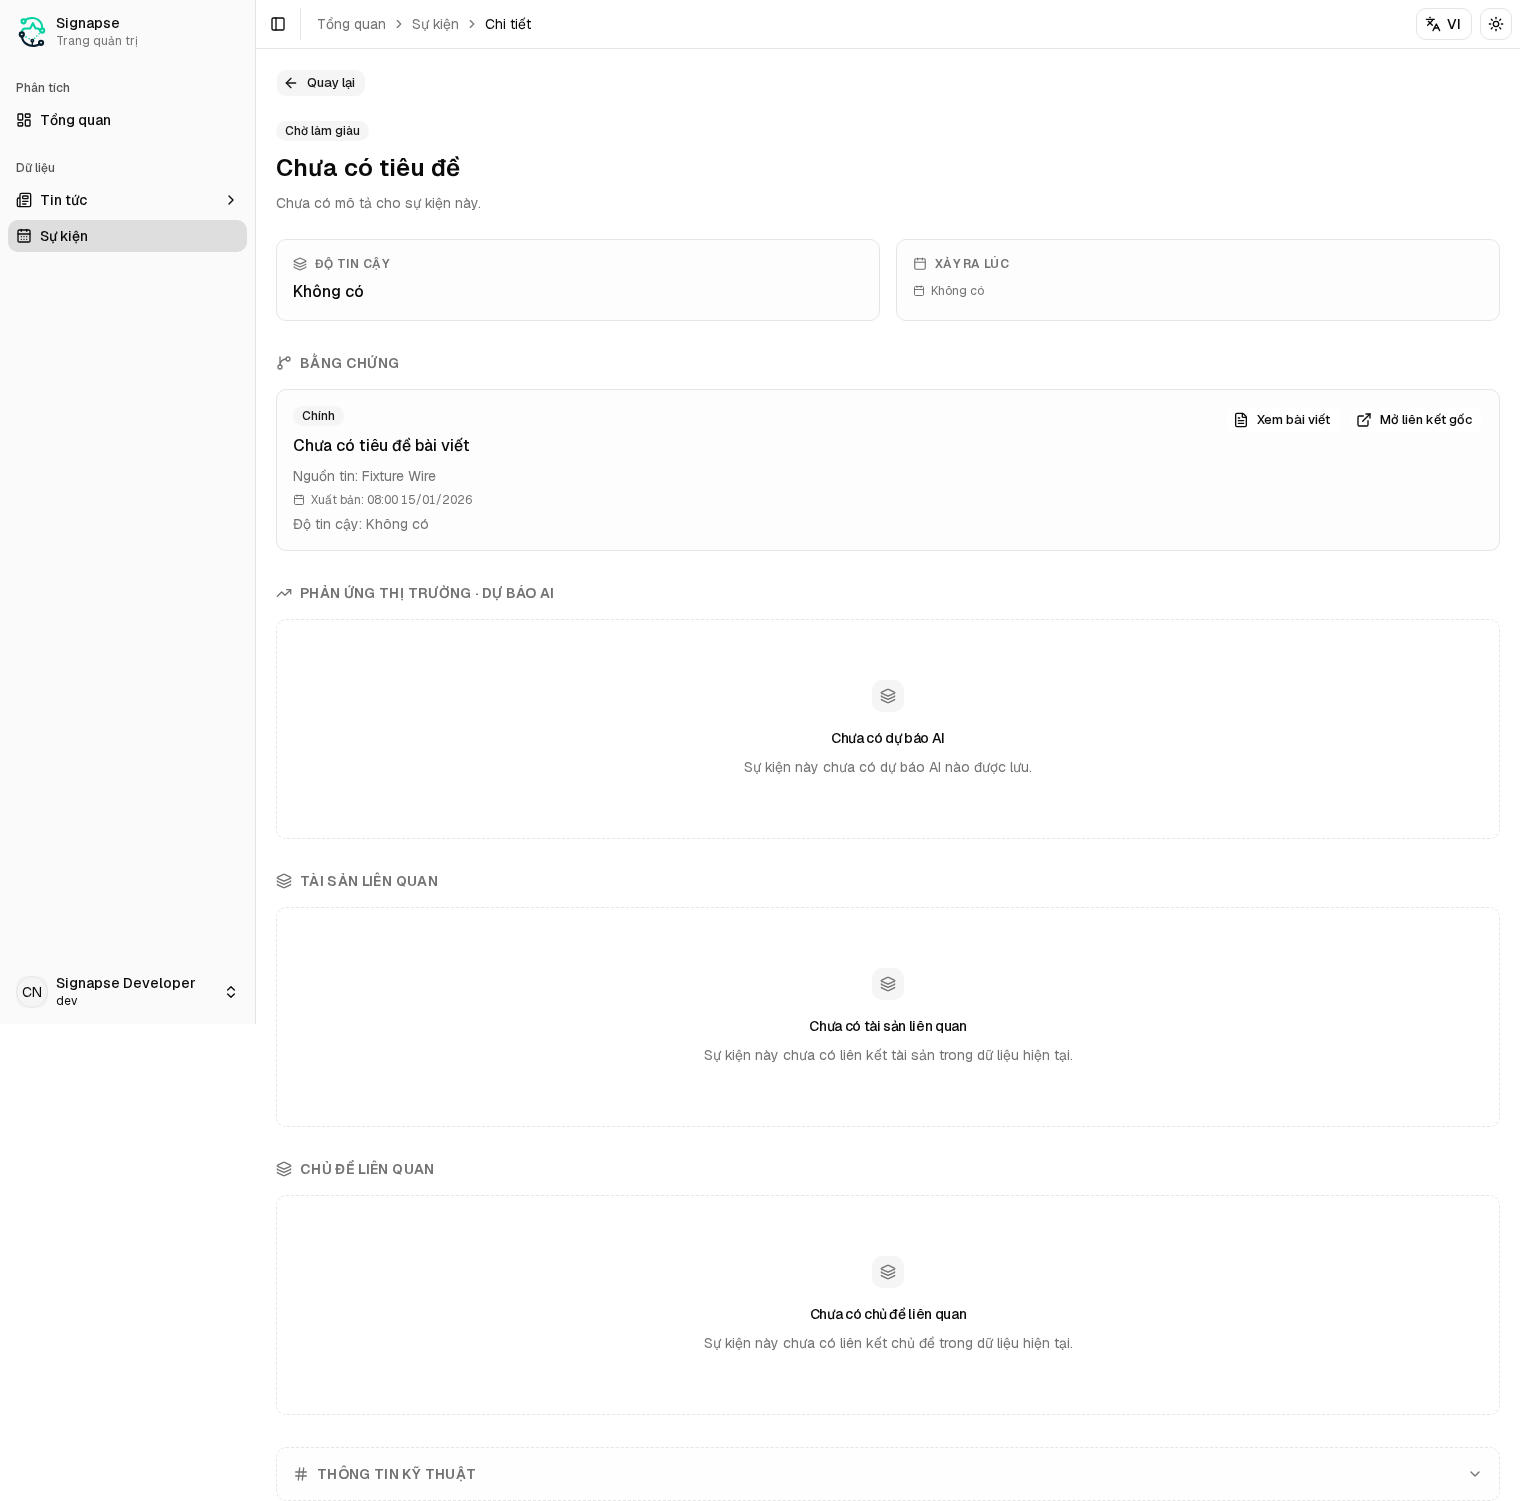
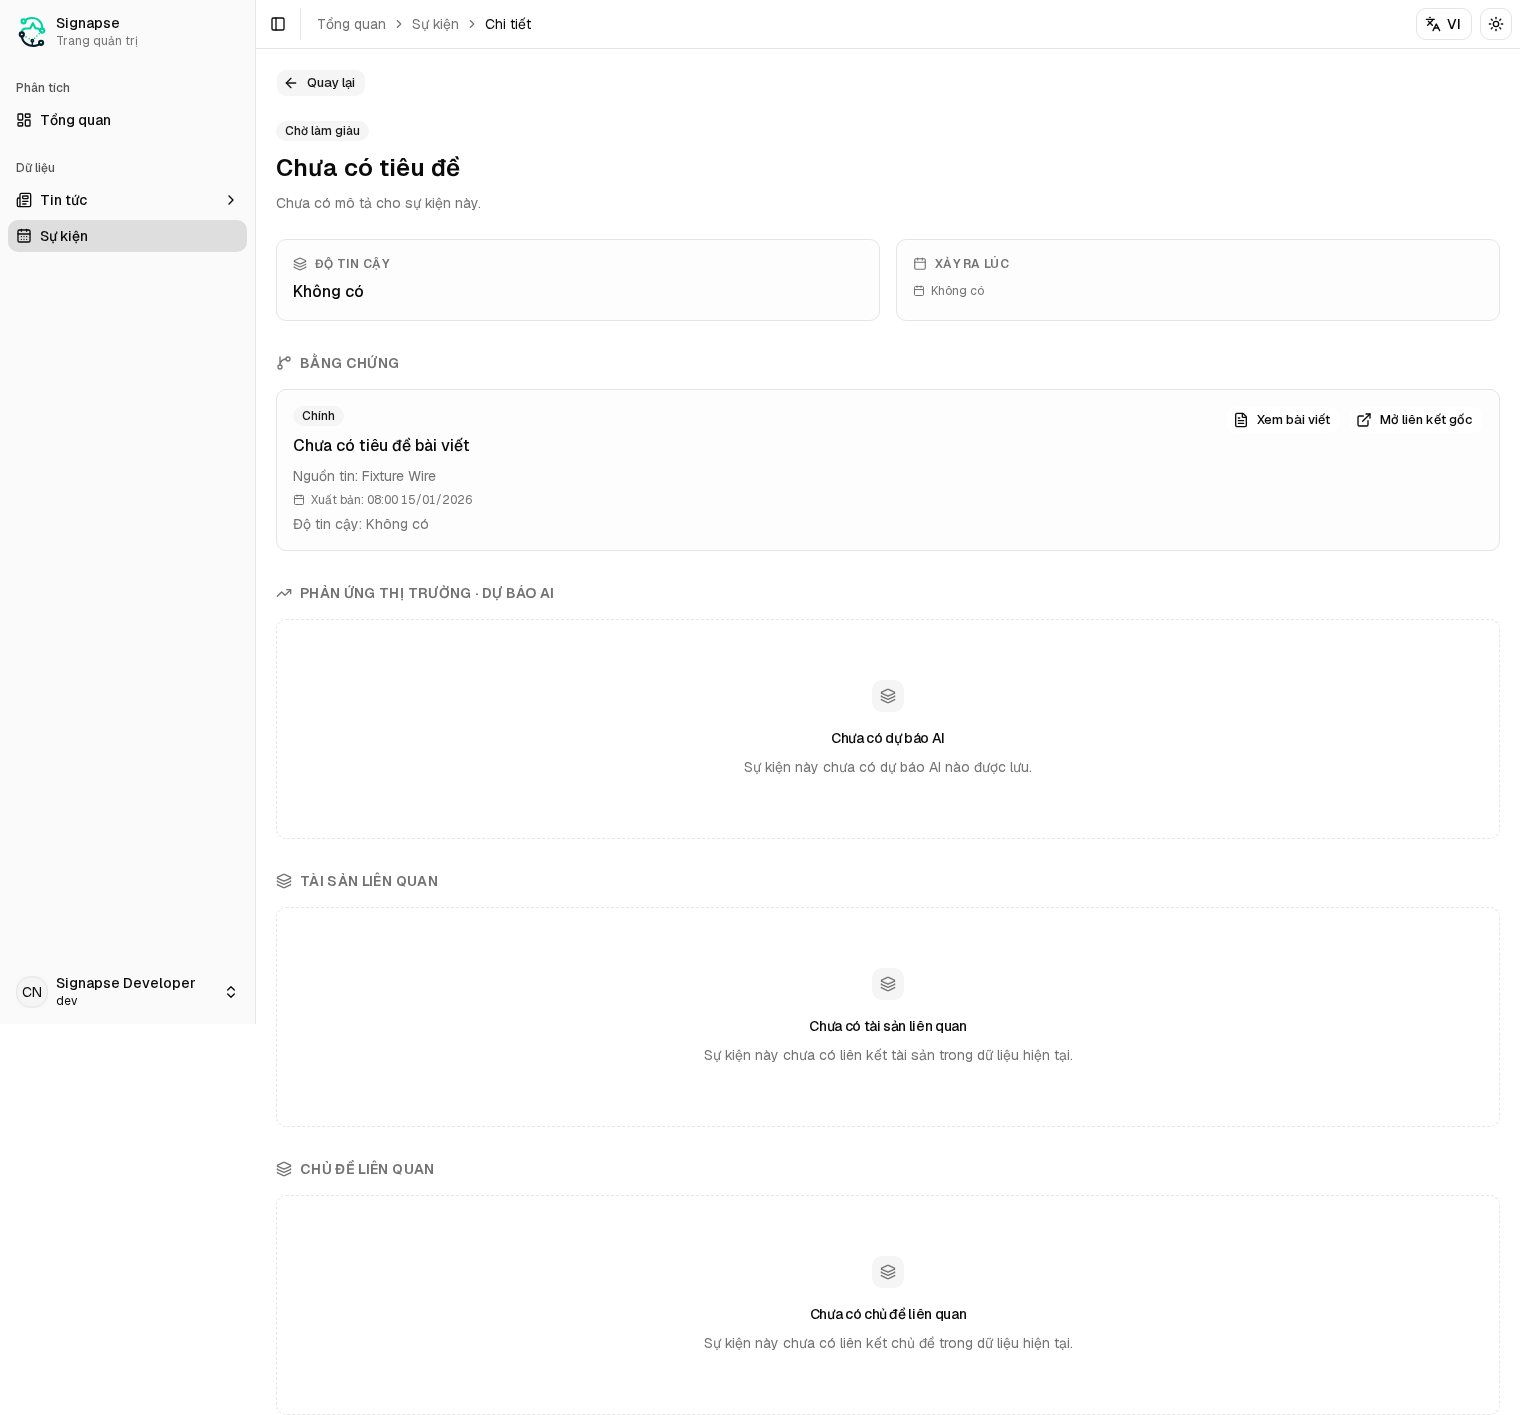
fix(events): address review findings (SIGN-283)

diff --git a/tests/e2e/events-workflow.spec.ts b/tests/e2e/events-workflow.spec.ts
@@ -36,8 +36,7 @@ test.describe("Events workflow", () => {
       contentType: "image/png",
     })
     await waitForClientHandler(nextPage)
-    await nextPage.focus()
-    await nextPage.press("Enter")
+    await nextPage.click({ timeout: 10_000 })
     await expect(page).toHaveURL(/page=2/)
 
     await waitForClientHandler(search, "onChange")
@@ -202,6 +201,9 @@ test.describe("Events workflow", () => {
     await expect(
       page.getByText(viDictionary.events.detailNoDescription, { exact: true })
     ).toBeVisible()
+    await expect(
+      page.getByText(viDictionary.events.technicalInfo, { exact: true })
+    ).toHaveCount(0)
     const sourceLink = page.getByRole("link", {
       name: viDictionary.events.openOriginalLink,
       exact: true,
@@ -284,6 +286,73 @@ test.describe("Events workflow", () => {
     await expect(
       page.getByRole("link", {
         name: viDictionary.events.openOriginalLink,
+        exact: true,
+      })
+    ).toHaveCount(0)
+  })
+
+  test("does not show a previous Event during a delayed in-app detail navigation", async ({
+    page,
+    fixture,
+  }) => {
+    await fixture.setPermissions(["event:read"])
+    await fixture.setScenario("/events/62", "delayed", "GET")
+    await page.setViewportSize({ width: 1280, height: 800 })
+    await page.goto("/vi/events?size=20")
+
+    const firstEventLink = page.getByRole("link", {
+      name: "Central bank signals a slower easing path",
+      exact: true,
+    })
+    await waitForClientHandler(firstEventLink)
+    await firstEventLink.click()
+    await expect(page).toHaveURL(/\/vi\/events\/61$/)
+    await expect(
+      page.getByRole("heading", {
+        level: 1,
+        name: "Central bank signals a slower easing path",
+        exact: true,
+      })
+    ).toBeVisible()
+
+    const backToEvents = page.getByRole("link", {
+      name: viDictionary.common.back,
+      exact: true,
+    })
+    await waitForClientHandler(backToEvents)
+    await backToEvents.click()
+    await expect(page).toHaveURL(/\/vi\/events(?:\?size=20)?$/)
+
+    const destinationEventLink = page.getByRole("link", {
+      name: "Energy demand outlook revised higher",
+      exact: true,
+    })
+    await waitForClientHandler(destinationEventLink)
+    await destinationEventLink.click()
+    await expect(page).toHaveURL(/\/vi\/events\/62$/)
+    await expect
+      .poll(async () => (await fixture.state()).pendingRequests)
+      .toBeGreaterThan(0)
+    await expect(
+      page.getByRole("heading", {
+        level: 1,
+        name: "Central bank signals a slower easing path",
+        exact: true,
+      })
+    ).toHaveCount(0)
+
+    await fixture.setScenario("/events", "event-detail-denied", "GET")
+    await fixture.setScenario("/events/62", "success", "GET")
+
+    await expect(
+      page.getByRole("alert").filter({
+        hasText: viDictionary.events.detailDenied,
+      })
+    ).toContainText(viDictionary.events.detailDenied)
+    await expect(
+      page.getByRole("heading", {
+        level: 1,
+        name: "Central bank signals a slower easing path",
         exact: true,
       })
     ).toHaveCount(0)

diff --git a/app/[lang]/(main)/events/[id]/page.tsx b/app/[lang]/(main)/events/[id]/page.tsx
@@ -2,14 +2,10 @@ import { Suspense, type ElementType, type ReactNode } from "react"
 import {
   ArrowLeft,
   Calendar,
-  ChevronDown,
-  Clock3,
   ExternalLink,
   FileText,
   GitBranch,
-  Hash,
   Layers3,
-  RefreshCcw,
   TrendingUp,
 } from "lucide-react"
 import { LocalizedLink as Link } from "@/components/localized-link"
@@ -676,43 +672,6 @@ async function FetchEventData({
               description={dictionary.events.noThemesDescription}
             />
           )}
-        </section>
-
-        <section className="rounded-lg border border-dashed bg-muted/10">
-          <details>
-            <summary className="flex cursor-pointer list-none items-center justify-between gap-3 p-4 text-sm font-semibold text-muted-foreground">
-              <span className="inline-flex items-center gap-2 tracking-wide uppercase">
-                <Hash className="h-4 w-4" />
-                {dictionary.events.technicalInfo}
-              </span>
-              <ChevronDown className="h-4 w-4" />
-            </summary>
-            <div className="grid gap-4 border-t border-border p-4 sm:grid-cols-2 xl:grid-cols-3">
-              <DetailCard
-                title={dictionary.events.canonicalKey}
-                value={event.canonicalKey || dictionary.common.notAvailable}
-                icon={GitBranch}
-              />
-              <DetailCard
-                title={dictionary.events.createdAt}
-                valueNode={
-                  <AppTimeMetadata icon={Clock3}>
-                    {formatDateTime(event.createdDate, locale, dictionary)}
-                  </AppTimeMetadata>
-                }
-                icon={Clock3}
-              />
-              <DetailCard
-                title={dictionary.events.updatedAt}
-                valueNode={
-                  <AppTimeMetadata icon={RefreshCcw}>
-                    {formatDateTime(event.lastModifiedDate, locale, dictionary)}
-                  </AppTimeMetadata>
-                }
-                icon={RefreshCcw}
-              />
-            </div>
-          </details>
         </section>
       </div>
     </div>

diff --git a/app/[lang]/(main)/events/event-list.tsx b/app/[lang]/(main)/events/event-list.tsx
@@ -294,7 +294,7 @@ export function EventList({ eventPage, hasSearch }: EventListProps) {
         </AppListTable>
       )}
 
-      <AppPaginationControls page={eventPage} className="mt-4" />
+      <AppPaginationControls page={eventPage} className="mt-4 md:pr-48" />
     </div>
   )
 }

diff --git a/docs/design/evidence/SIGN-283/README.md b/docs/design/evidence/SIGN-283/README.md
@@ -15,20 +15,20 @@ The implementation follows the four-column desktop list, stacked mobile event ca
 
 Captured from the P0 fixture-backed Chromium run against the real FE HTTP boundary, including SSR. All renders use Vietnamese and the light theme. Full-page images are linked below; viewport dimensions name the CSS viewport before full-page capture.
 
-- Events List, Wide, 1520×1024, expanded sidebar, page 1, search `Fixture`, default occurrence sort: [candidate render](events-list-wide-light-vi-1520x1024.png). This is the approved desktop table at the 1520px reference frame.
+- Events List, Wide, 1520×1024, expanded sidebar, page 1, search `Fixture`, default occurrence sort: [candidate render](events-list-wide-light-vi-1520x1024.png). The pager reserves 12rem at the inline end for the fixed Ask Signapse launcher; Playwright pointer-clicked Next successfully without the launcher intercepting it. This is the approved desktop table at the 1520px reference frame.
 - Events List, Mobile, 390×844, page 1, partial Event `62` with no title: [candidate render](events-list-mobile-partial-untitled-light-vi-390x844-fullpage.png). The full-page capture is 390×2908; the 390px page has no horizontal overflow.
-- Event Detail, Mobile, 390×844, Event `62`, `event:read` without `news-article:read`, evidence with a source URL: [candidate render](event-detail-mobile-event-read-light-vi-390x844-fullpage.png). The full-page capture is 390×1589; it shows the localized missing-title label and source action without an Article action.
-- Event Detail, Wide, 1520×1024, Event `62`, both Event and Article read permissions: [candidate render](event-detail-wide-article-read-light-vi-1520x1024-fullpage.png). The full-page capture is 1520×1501 and includes both the internal Article route and evidence source URL action.
+- Event Detail, Mobile, 390×844, Event `62`, `event:read` without `news-article:read`, evidence with a source URL: [candidate render](event-detail-mobile-event-read-light-vi-390x844-fullpage.png). The full-page capture is 390×1503; it shows the localized missing-title label and source action without an Article action, and ends at Related Themes as approved.
+- Event Detail, Wide, 1520×1024, Event `62`, both Event and Article read permissions: [candidate render](event-detail-wide-article-read-light-vi-1520x1024-fullpage.png). The full-page capture is 1520×1415 and includes both the internal Article route and evidence source URL action; Related Themes is the final section as approved.
 
 Playwright hides the `nextjs-portal` development chrome for these screenshots so it does not obscure the product UI.
 
-The focused browser check also verifies the list at 360px, 767px, 768px and an effective 760px CSS viewport representing a 1520px frame at 200% zoom. It checks the desktop/mobile list switch at 768px, no page-level horizontal overflow, keyboard activation, search/sort/page URL state, no-results versus request failure, denied and unavailable detail states, a partial title, and both evidence-link permission cases.
+The browser check also verifies the list at 360px, 767px, 768px and an effective 760px CSS viewport representing a 1520px frame at 200% zoom. It checks the desktop/mobile list switch at 768px, no page-level horizontal overflow, pointer and keyboard activation, search/sort/page URL state, no-results versus request failure, denied and unavailable detail states, a partial title, and both evidence-link permission cases. An in-app list → Event `61` → list → Event `62` navigation holds the destination request, then returns 403; the previous Event `61` heading is absent during the pending and denied destination states.
 
 ## API and verification
 
 The producer handoff is [SIGN-281 comment 11573](https://signapse-group.atlassian.net/browse/SIGN-281?focusedCommentId=11573); it records dev deployment revision `765059683b3b265ce101823765d9cc5f9495e0f4`, a successful deployment health check and an OpenAPI revision match. The accepted FE survey [SIGN-283 comment 11574](https://signapse-group.atlassian.net/browse/SIGN-283?focusedCommentId=11574) records the live OpenAPI `x-build-revision` as the same SHA.
 
[2 lines of base64/hex data omitted]
 
 Local checks for this candidate:
 
@@ -36,7 +36,9 @@ Local checks for this candidate:
 - `pnpm typecheck` — passed.
 - `pnpm test:contract` — fixture consistency passed for 88 operations.
 - `API_BASE_URL=https://dev-api.signapse.cloud pnpm test:contract -- --scope 'GET /events,GET /events/{id}' --live` — passed for 2 operations.
-- `/opt/apps/symphony/runtime/run-fe-browser "$PWD" tests/e2e/events-workflow.spec.ts` — 3 passed; fixture-backed Chromium SSR and routing, locale, permissions, failure states, keyboard and responsive checks.
 - `pnpm exec vitest run tests/components/local-entity-quick-detail-drawer.component.test.tsx` — 16 passed.
+- `/opt/apps/symphony/runtime/run-fe-browser "$PWD" tests/e2e/events-workflow.spec.ts` — 4 passed; fixture-backed Chromium SSR and routing, locale, permissions, delayed identity change, failure states, pointer/keyboard activation and responsive checks.
+- Scoped ESLint on the changed route, list and browser spec — passed.
+- `git diff --check` — passed.
 
 These local fixture checks do not prove live authorization or feature acceptance. QA owns live feature coverage; the coordinator owns Story acceptance.
